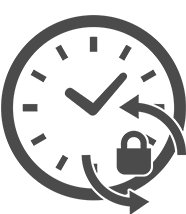
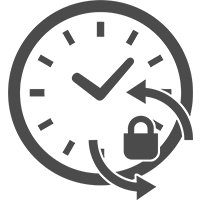
add collaborations

diff --git a/plasmnet/src/contents/roadmapRecord.ts b/plasmnet/src/contents/roadmapRecord.ts
@@ -1,12 +1,12 @@
 export const RoadmapList = [
   {
     id: 1,
-    month: "2019.10",
+    month: "2019.Q3",
     task: ["PoC-0 : Launch Plasm Network minimum testnet(Miniplasm)"]
   },
   {
     id: 2,
-    month: "2019.12",
+    month: "2019.Q4",
     task: [
       "PoC-1: Start the Testnet Lockdrop.",
       "PoC-2: Implement Operator trading modules.",
@@ -16,41 +16,33 @@ export const RoadmapList = [
   },
   {
     id: 3,
-    month: "2020.02",
-    task: ["PoC-4: Start the Mainnet Lcodrop."]
+    month: "2020.Q1",
+    task: ["Start the Mainnet Lcodrop."]
   },
   {
     id: 4,
-    month: "2020.03",
-    task: ["Launch Plasm Network Mainnet"]
+    month: "2020.02",
+    task: [
+      "Launch Plasm Network Mainnet",
+      "Implement OVM Modules."
+    ]
   },
   {
     id: 5,
-    month: "2020.04",
-    task: ["PoC-5: Implement OVM Modules."]
+    month: "2020.03",
+    task: [
+      "Start the second ETH & BTC Lockdrop.",
+      "Start the third ETH & BTC & DOT Lockdrop.",
+      "Plasm Network becomes a parachain. (Depends on Polkadot)"
+    ]
   },
   {
     id: 6,
-    month: "2020.05",
-    task: ["PoC-6: Start the second ETH & BTC Lockdrop."]
+    month: "2020.Q4",
+    task: ["Plasm Network migrate from Proof of Authroities."]
   },
   {
     id: 7,
-    month: "2020.07",
-    task: ["PoC-7: Start the third ETH & BTC & DOT Lockdrop."]
-  },
-  {
-    id: 8,
-    month: "2020.08",
-    task: ["PoC-8: Plasm Network becomes a parachain. (Depends on Polkadot)"]
-  },
-  {
-    id: 9,
-    month: "2020.09",
-    task: ["PoC-9: Plasm Network migrate to NPoS."]
-  },
-  {
-    id: 10,
     month: "2021",
     task: ["Listing!!"]
   }

diff --git a/plasmnet/src/components/Footer.tsx b/plasmnet/src/components/Footer.tsx
@@ -3,6 +3,7 @@ import styled from "styled-components";
 import {
   Company,
   Products,
+  Collaboration,
   Blogs,
   Community,
   Discussions
@@ -60,21 +61,13 @@ const Footer: React.FC<Props> = () => {
 
         <ul className="footer-column">
           <h3>Collaboration</h3>
-          <li>
-            <a href="/" rel="noopener noreferrer" target="_blank">
-              Example
-            </a>
-          </li>
-          <li>
-            <a href="/" rel="noopener noreferrer" target="_blank">
-              Example
-            </a>
-          </li>
-          <li>
-            <a href="/" rel="noopener noreferrer" target="_blank">
-              Example
-            </a>
-          </li>
+          {Collaboration.map(collaboration=> (
+            <li key={collaboration.description}>
+              <a href={collaboration.link} rel="noopener noreferrer" target="_blank">
+                {collaboration.description}
+              </a>
+            </li>
+          ))}
         </ul>
 
         <ul className="footer-column">

diff --git a/plasmnet/src/contents/links.ts b/plasmnet/src/contents/links.ts
@@ -81,10 +81,38 @@ export const Company = [
 
 export const Products = [
   {
-    description: "Plasm Testnet v3",
+    description: "Plasm",
     link: "https://github.com/staketechnologies/Plasm"
+  },
+  {
+    description: "Plasm Portal Sites",
+    link: "https://github.com/staketechnologies/apps"
+  },
+  {
+    description: "Plasm Lockdrop",
+    link: "https://github.com/staketechnologies/lockdrop-ui"
+  },
+  {
+    description: "Plasm documentations",
+    link: "https://github.com/staketechnologies/plasmdocs"
+  },
+  {
+    description: "Plasm homepage",
+    link: "https://github.com/staketechnologies/plasmnet.io"
   }
 ];
+
+export const Collaboration = [
+  {
+    description: "Substrate Builders Program",
+    link: "https://builders.parity.io/"
+  },
+  {
+    description: "Web3 foundation",
+    link: "https://web3.foundation/"
+  }
+
+]
 
 export const Blogs = [
   {

diff --git a/plasmnet/src/components/TestnetInfo.tsx b/plasmnet/src/components/TestnetInfo.tsx
@@ -29,7 +29,7 @@ const TestnetInfo: React.FC<Props> = () => {
         </div>
         <div className="introduction">
           <div>
-            <p>This is the most interesting network.</p>
+            <p>This is the most latest network.</p>
             <p>
               Testnet v3 DApp owners and users can stake PLM tokens for
               applications and get a part of network block rewards as same as

diff --git a/plasmnet/src/contents/achieveIntroductions.ts b/plasmnet/src/contents/achieveIntroductions.ts
@@ -1,5 +1,5 @@
 import DappsRewardsIcon from "../resources/dappsrewards.svg";
-import LockdropIcon from "../resources/lockdrop.png";
+import LockdropIcon from "../resources/lock.svg";
 import TradingIcon from "../resources/trading.svg";
 
 export const AchieveIntroductions = [
